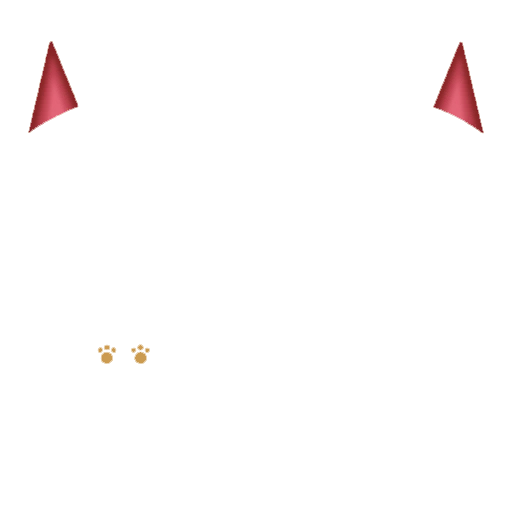
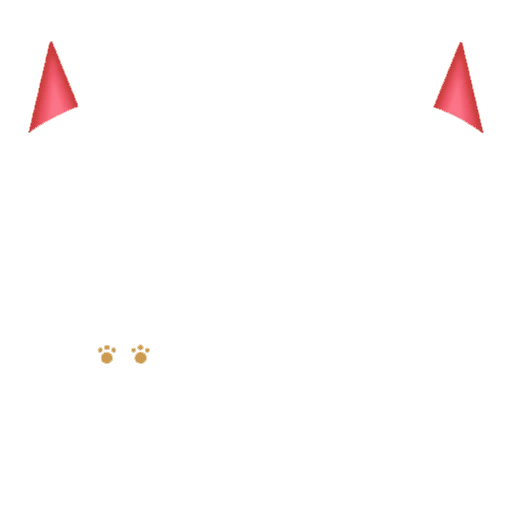
Brighten textures (eyes + ears) + small tweaks

Changed region(s): [[0.8438, 0.0625, 0.9375, 0.25], [0.0625, 0.0625, 0.1562, 0.25]]

diff --git a/app/layout.tsx b/app/layout.tsx
@@ -3,7 +3,7 @@ import "./globals.css";
 import Link from "next/link";
 
 export const metadata: Metadata = {
-  title: "3D CritterMaker",
+  title: "Design Animal Crossing Villagers in 3D",
   description: "Create your own 3D animal villagers in the Animal Crossing New Horizons style, right here in your browser - no app download needed!",
 };
 

diff --git a/app/Maker.tsx b/app/Maker.tsx
@@ -101,7 +101,7 @@ const Maker: React.FC = () => {
             className={sty.critter}
             style={{ width: "30rem", height: "35rem" }}
             camera={{
-              position: [0, 0, 10],
+              position: [0, 1.5, 10],
             }}
             shadows
           >

diff --git a/app/components/Critter.tsx b/app/components/Critter.tsx
@@ -79,7 +79,7 @@ function Critter({ mainColor = "#fff" }: Props) {
   }, [mainColor]);
 
   return (
-    <group ref={groupRef} position={[0, -7, 0]} receiveShadow castShadow />
+    <group ref={groupRef} position={[0, -7.75, 0]} receiveShadow castShadow />
   );
 }
 
